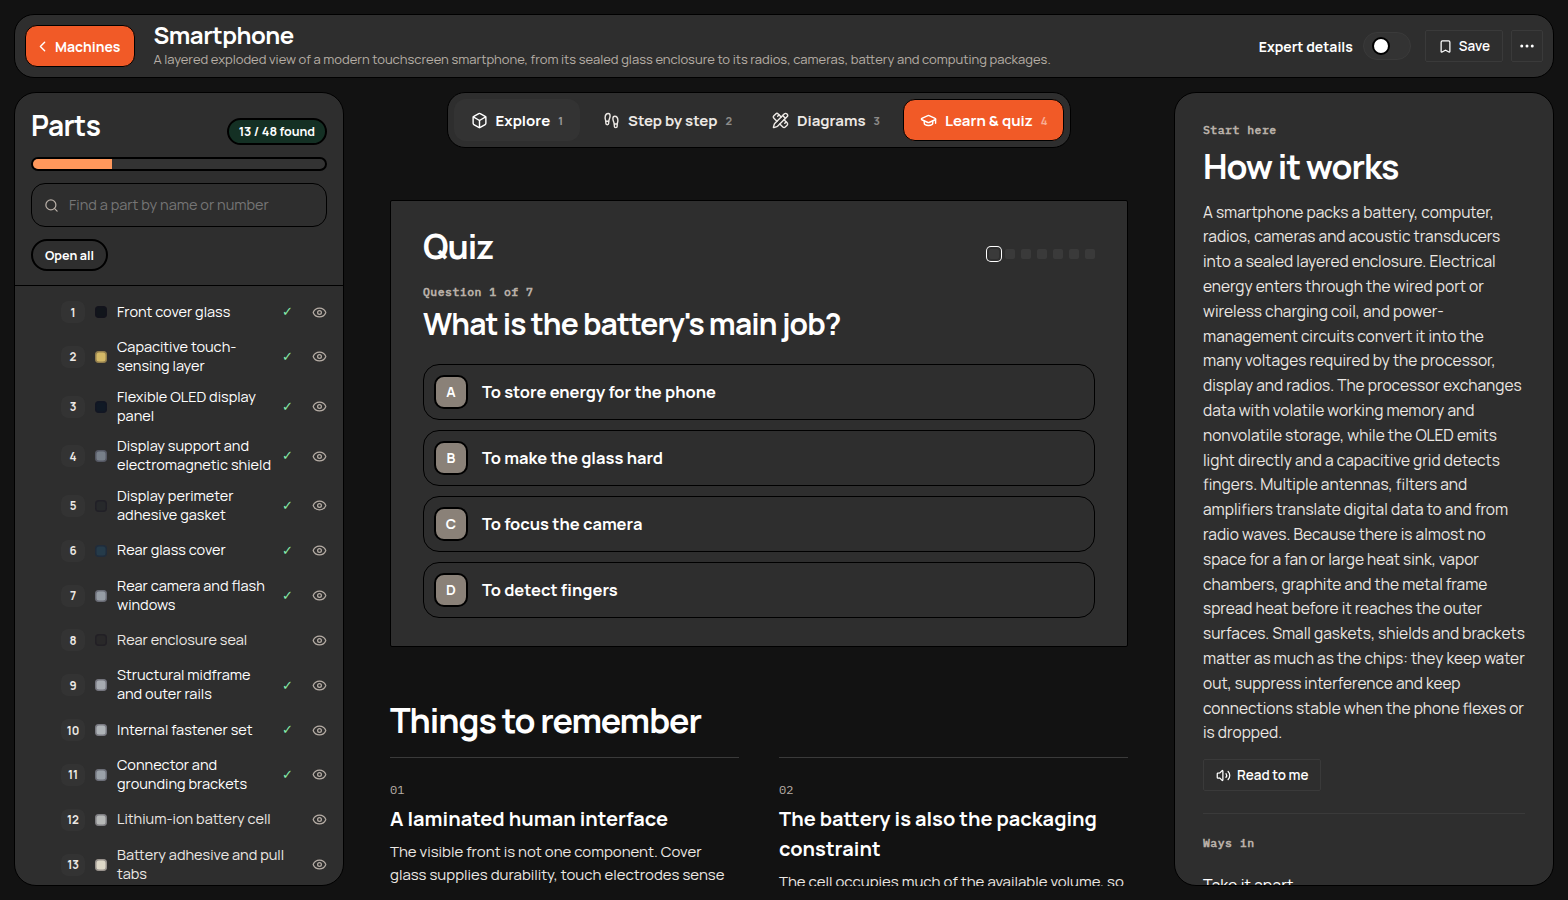
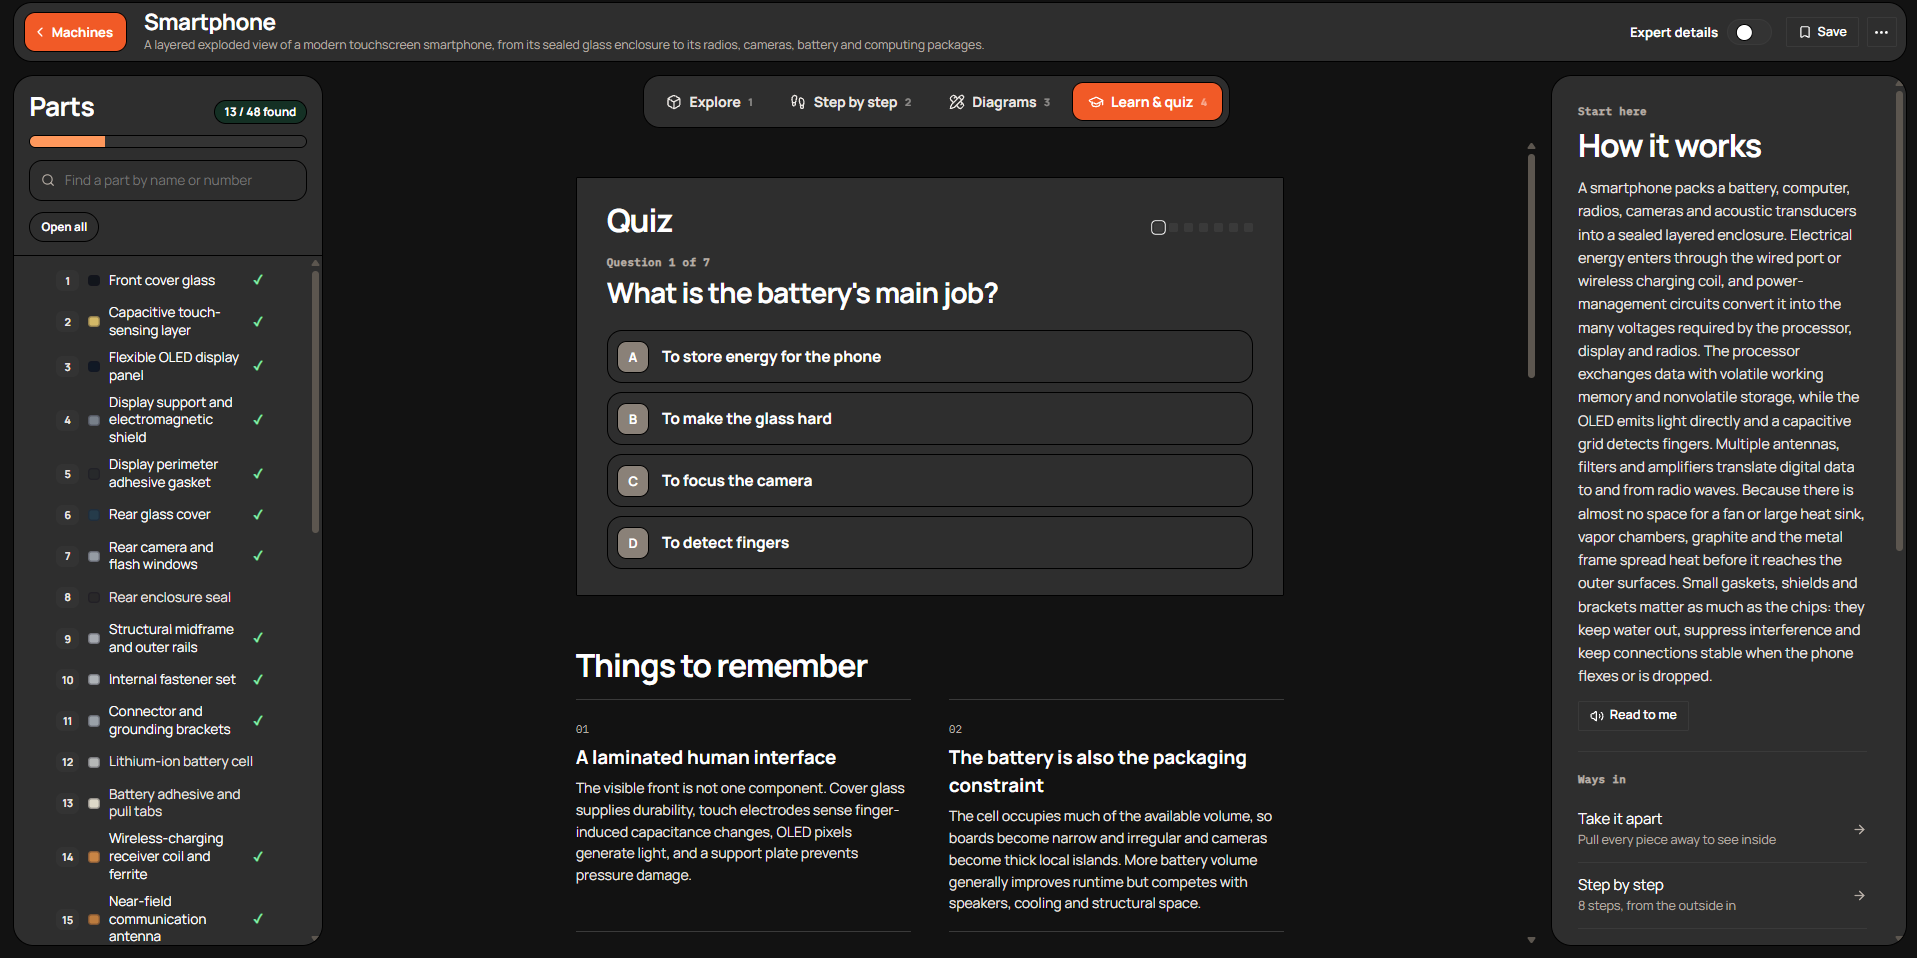
docs: replace README screenshots
- Drop in the current UI screenshots under the existing docs/*.png names.

diff --git a/README.md b/README.md
@@ -23,11 +23,11 @@ Runs on your own machine with one API key and no sign-up. Everything is saved in
 
 <div align="center">
 
-<img src="docs/explore.png" alt="Smartphone designed by Kimi K3.1 Pro: exploded layered internals with numbered name tags, parts list on the left, How it works on the right" width="900">
+<img src="docs/explore.png" alt="Attack helicopter designed by Kimi K3.1 Pro: exploded internals, mast radar and rotor drive selected, parts list numbered on the left, How it works on the right" width="900">
 
 </div>
 
-_A modern touchscreen smartphone, designed by Kimi K3.1 Pro: 48 parts, Explore with Names on and the stack pulled apart so every layer—from cover glass to radios—is tagged and clickable._
+_A tandem-seat twin-turboshaft attack helicopter with mast-mounted radar, designed by Kimi K3.1 Pro: 54 parts, five flows, Explore with the main transmission and rotor mast picked; "See through" and exploded view show the drive path._
 
 ## Why Kimi K3.1 Pro
 
@@ -69,15 +69,15 @@ Kimi K3.1 Pro can design in 3D, and Kaplun lets it do the whole job:
 
 <table>
 <tr>
-<td><img src="docs/home.png" alt="Home: snap or drop a photo, or type a name; example machines; the attack helicopter as the featured machine" width="440"></td>
-<td><img src="docs/steps.png" alt="Step by step on the smartphone: step 1 of 8, peel the sealed glass sandwich, with the front cover glass tagged on the model" width="440"></td>
+<td><img src="docs/home.png" alt="Home: snap or drop a photo, or type a name; example machines; the jet engine as the featured machine" width="440"></td>
+<td><img src="docs/steps.png" alt="Step by step on the toothbrush: step 3 of 8, the handle enclosure is off and the board and chassis are tagged" width="440"></td>
 </tr>
 <tr>
 <td align="center"><sub>Start from a photo or a name</sub></td>
 <td align="center"><sub>A guided teardown, one step at a time</sub></td>
 </tr>
 <tr>
-<td colspan="2"><img src="docs/quiz.png" alt="Learn & quiz on the smartphone: question 1 of 7 with big answer buttons and things to remember" width="900"></td>
+<td colspan="2"><img src="docs/quiz.png" alt="Learn & quiz: one question at a time with big answer buttons" width="900"></td>
 </tr>
 </table>
 
